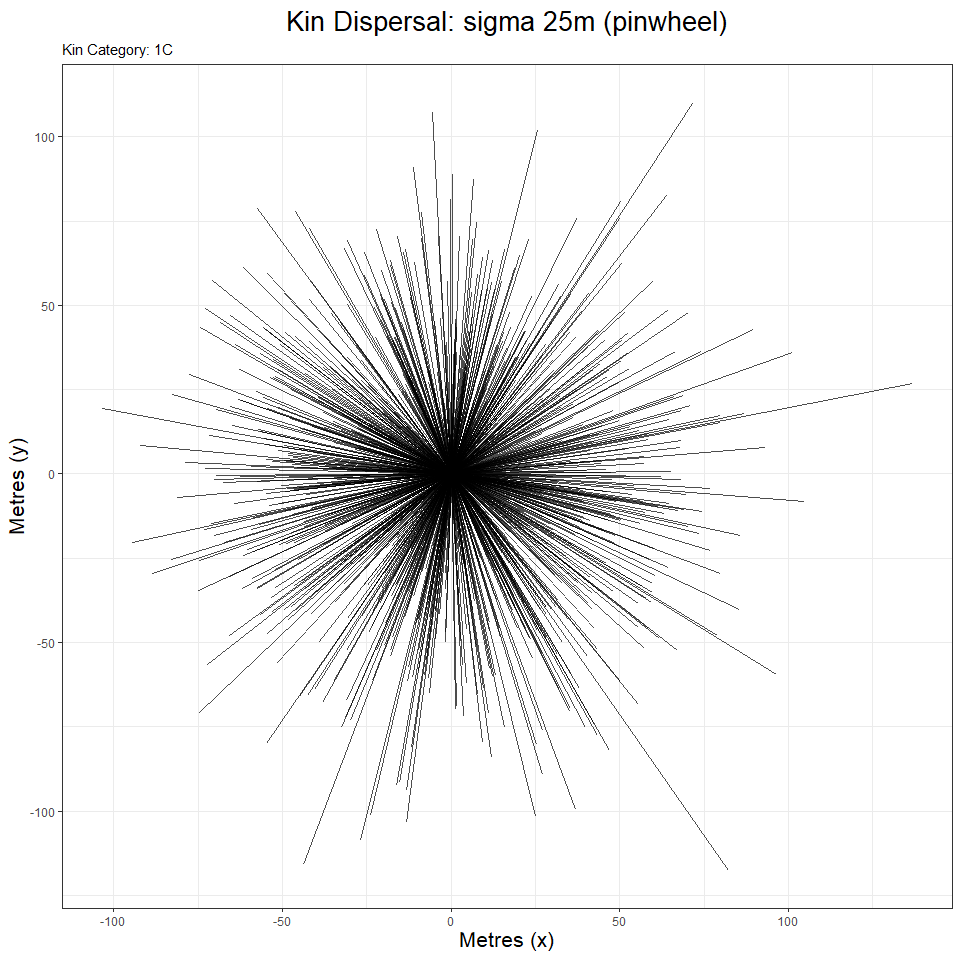
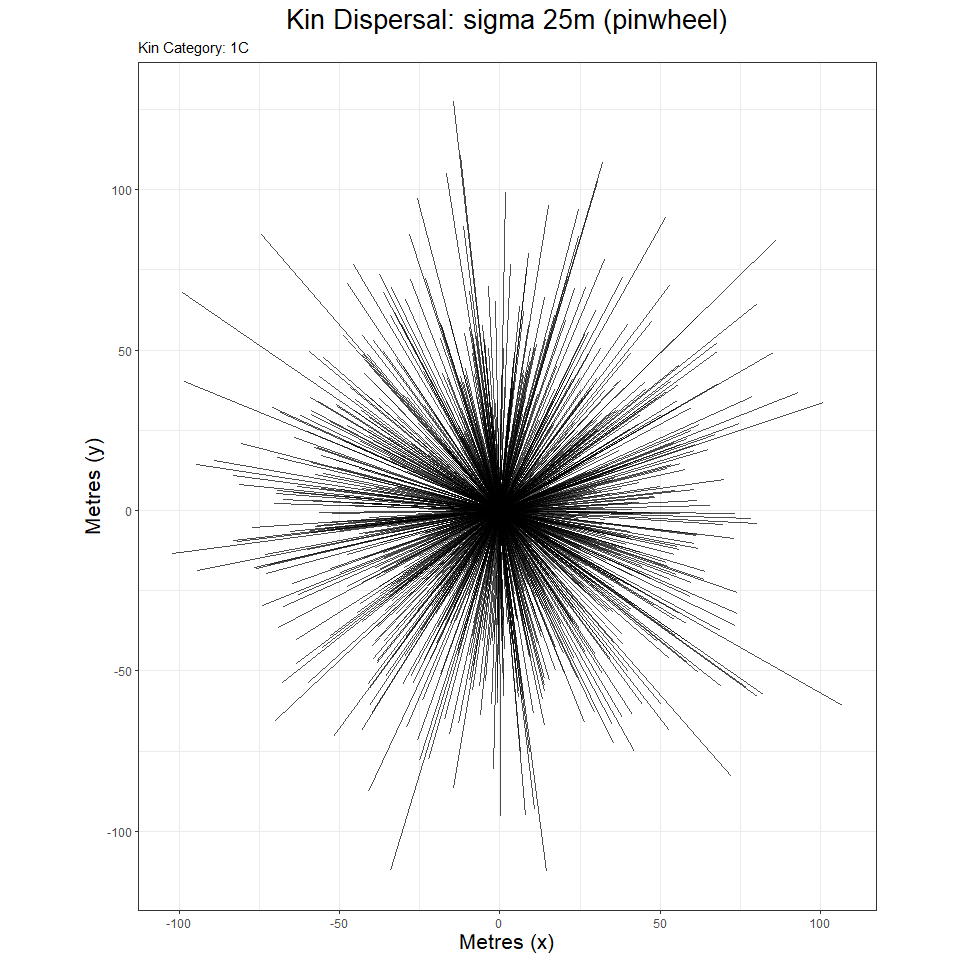
changed 'gamma' value to 'vgamma' to make it clear we are using a variance-gamma distribution and changed default shape value to 0.5. removed unused distributions

diff --git a/README.md b/README.md
@@ -1,4 +1,4 @@
-KINDISPERSE 0.9.1
+KINDISPERSE 0.9.2
 ================
 
 -   [1. Introduction](#1-introduction)
@@ -280,12 +280,12 @@ KinPairSimulation, which supplies a tibble (dataframe) of simulation
 results, as well as metadata capturing the simulation parameters.
 
 Three kernel types are supported for the next two simulations at
-present: `Gaussian`, `Laplace`, and `gamma`. These are passed to the
-functions with the `method` parameter. If using gamma, also supply its
-shape parameter with the argument `shape`. Small values of `shape`
-correspond to an increasingly leptokurtic kernel - i.e. a strong central
-clustering with an increased number of very widely spaced individuals
-(long tails).
+present: `Gaussian`, `Laplace`, and `vgamma` (variance-gamma). These are
+passed to the functions with the `method` parameter. If using vgamma,
+also supply its shape parameter with the argument `shape`. Small values
+of `shape` correspond to an increasingly leptokurtic kernel - i.e. a
+strong central clustering with an increased number of very widely spaced
+individuals (long tails).
 
 The simple simulation, `simulate_kindist_simple()`, simulates
 intergenerational dispersal for each kin category based on a simple
@@ -313,13 +313,13 @@ simulate_kindist_simple(nsims = 5, sigma = 100, method = "Gaussian", kinship = "
 #> 
 #> tab
 #> # A tibble: 5 x 8
-#>   id1   id2   kinship distance    x1    y1    x2    y2
-#>   <chr> <chr> <chr>      <dbl> <dbl> <dbl> <dbl> <dbl>
-#> 1 1a    1b    PO         161.   74.2  32.9 -26.7 -92.2
-#> 2 2a    2b    PO          98.3  76.0  86.3 166.   46.2
-#> 3 3a    3b    PO          81.1  94.9  14.9 109.  -64.9
-#> 4 4a    4b    PO          64.4  72.8  72.6 128.  105. 
-#> 5 5a    5b    PO         165.   42.8  76.5 -56.3 -55.8
+#>   id1   id2   kinship distance     x1    y1    x2    y2
+#>   <chr> <chr> <chr>      <dbl>  <dbl> <dbl> <dbl> <dbl>
+#> 1 1a    1b    PO          95.1 12.9    50.4  94.6  99.1
+#> 2 2a    2b    PO          70.4 44.2    18.6 -23.7  37.0
+#> 3 3a    3b    PO         163.   0.975  92.6 -75.1 -52.1
+#> 4 4a    4b    PO         124.  66.0    23.9  82.6 147. 
+#> 5 5a    5b    PO          29.3 97.3    41.4  74.7  22.9
 #> -----------------------------------
 ```
 
@@ -365,13 +365,13 @@ simulate_kindist_composite(nsims = 5, initsigma = 50, breedsigma = 30, gravsigma
 #> 
 #> tab
 #> # A tibble: 5 x 8
-#>   id1   id2   kinship distance     x1    y1     x2         y2
-#>   <chr> <chr> <chr>      <dbl>  <dbl> <dbl>  <dbl>      <dbl>
-#> 1 1a    1b    H1C         261.  -9.17 169.  -230.    30.9    
-#> 2 2a    2b    H1C         306. -22.0  122.   282.    96.9    
-#> 3 3a    3b    H1C         471. 357.   -88.3  -94.4   46.5    
-#> 4 4a    4b    H1C         421. 365.    14.6  -55.6   -0.00907
-#> 5 5a    5b    H1C         186. -96.5   45.8  -18.7 -123.     
+#>   id1   id2   kinship distance    x1     y1      x2     y2
+#>   <chr> <chr> <chr>      <dbl> <dbl>  <dbl>   <dbl>  <dbl>
+#> 1 1a    1b    H1C        290.   90.8  -16.9    6.18  261. 
+#> 2 2a    2b    H1C        319.  165.    85.8 -145.    159. 
+#> 3 3a    3b    H1C        286.  198.   322.    20.9    97.8
+#> 4 4a    4b    H1C        224.  127.    56.0   37.8  -150. 
+#> 5 5a    5b    H1C         63.0  82.2 -170.   118.   -119. 
 #> -----------------------------------
 ```
 
@@ -413,18 +413,18 @@ sample_kindist(compsim, upper = 1000, lower = 200, spacing = 50, n = 25)
 #> 
 #> tab
 #> # A tibble: 25 x 8
-#>    id1    id2    kinship distance     x1     y1      x2      y2
-#>    <chr>  <chr>  <chr>      <dbl>  <dbl>  <dbl>   <dbl>   <dbl>
-#>  1 14647a 14647b H2C          325  185.   309.   -69.5    83.8 
-#>  2 33500a 33500b H2C          275  199.  -164.   -88.5  -184.  
-#>  3 2494a  2494b  H2C          575  378.  -341.  -126.    -53.2 
-#>  4 57692a 57692b H2C          225  198.   -21.1   -8.89   59.2 
-#>  5 61721a 61721b H2C          375  332.    39.6  -65.6    15.6 
-#>  6 71947a 71947b H2C          275   43.9  109.   -17.3  -137.  
-#>  7 4757a  4757b  H2C          375  -65.4  118.   262.   -105.  
-#>  8 39252a 39252b H2C          425 -268.   284.   -38.1   -78.0 
-#>  9 2043a  2043b  H2C          275   81.1 -113.  -163.      4.37
-#> 10 71354a 71354b H2C          225   54.3  -16.4  270.   -115.  
+#>    id1    id2    kinship distance     x1     y1     x2     y2
+#>    <chr>  <chr>  <chr>      <dbl>  <dbl>  <dbl>  <dbl>  <dbl>
+#>  1 6221a  6221b  H2C          375 -145.   -19.8  190.  -139. 
+#>  2 93665a 93665b H2C          675 -270.    21.5  278.  -340. 
+#>  3 93871a 93871b H2C          375 -202.    76.6   69.2 -199. 
+#>  4 47182a 47182b H2C          275 -157.   132.  -217.   402. 
+#>  5 69897a 69897b H2C          375   26.0   64.8 -229.   326. 
+#>  6 18354a 18354b H2C          425  -91.0 -247.   -60.9  179. 
+#>  7 92188a 92188b H2C          625 -205.  -186.  -289.   435. 
+#>  8 63921a 63921b H2C          525 -106.   399.  -347.   -83.5
+#>  9 72309a 72309b H2C          225   88.8  -35.7  173.   148. 
+#> 10 34747a 34747b H2C          275   48.6  259.   240.    87.6
 #> # ... with 15 more rows
 #> -----------------------------------
 ```
@@ -519,13 +519,13 @@ of three draws from the PO distribution, and thus would take
 ``` r
 paroff <- simulate_kindist_simple(nsims = 1000, sigma = 75, kinship = "PO")
 axials(paroff)
-#> [1] 77.32184
+#> [1] 73.51258
 ```
 
 ``` r
 fullsibs <- simulate_kindist_composite(nsims = 10000, ovisigma = 25, kinship = "FS")
 axials(fullsibs, composite = 2)
-#> [1] 24.98738
+#> [1] 25.00852
 ```
 
 Various auxillary functions exist to further manipulate axial distances
@@ -609,7 +609,7 @@ fullcous <- simulate_kindist_composite(nsims = 75, initsigma = init, breedsigma 
 
 axpermute_standard(fullcous, fullsibs)
 #>      2.5%      mean     97.5% 
-#>  89.13507 101.10718 115.15420
+#>  84.69283  94.14651 102.98370
 ```
 
 As we can see, the C.I. neatly brackets the actual axial value, though
@@ -638,18 +638,18 @@ cousins
 #> 
 #> tab
 #> # A tibble: 150 x 9
-#>    id1   id2   kinship distance       x1     y1    x2    y2 lifestage
-#>    <chr> <chr> <chr>      <dbl>    <dbl>  <dbl> <dbl> <dbl> <chr>    
-#>  1 1a    1b    UN         145.    21.5    211.   83.1  80.0 immature 
-#>  2 2a    2b    UN          43.5    0.167   17.5  29.5 -14.7 immature 
-#>  3 3a    3b    UN         162.  -133.      97.6  10.4  21.2 immature 
-#>  4 4a    4b    UN          88.0  129.     137.   85.6  60.2 immature 
-#>  5 5a    5b    UN         183.   -28.2   -151.  107.  -28.7 immature 
-#>  6 6a    6b    UN          40.1  -90.4     78.6 -51.2  87.2 immature 
-#>  7 7a    7b    UN         138.   165.     110.   42.7 174.  immature 
-#>  8 8a    8b    UN         245.  -183.      97.4  34.6 -15.8 immature 
-#>  9 9a    9b    UN          58.3   11.0     32.2  46.5  78.5 immature 
-#> 10 10a   10b   UN         186.   -55.4     78.0 122.   22.7 immature 
+#>    id1   id2   kinship distance    x1     y1      x2      y2 lifestage
+#>    <chr> <chr> <chr>      <dbl> <dbl>  <dbl>   <dbl>   <dbl> <chr>    
+#>  1 1a    1b    UN          263.  10.0  204.     2.39  -58.2  immature 
+#>  2 2a    2b    UN          299.  91.1  -40.7 -195.   -128.   immature 
+#>  3 3a    3b    UN          259. -21.8  -82.0  224.      1.16 immature 
+#>  4 4a    4b    UN          287. 116.   180.  -158.     93.9  immature 
+#>  5 5a    5b    UN          110. -24.2  169.   -23.7    59.2  immature 
+#>  6 6a    6b    UN          169.  78.1  196.    33.4    32.6  immature 
+#>  7 7a    7b    UN          117. -48.9   30.9    9.15  133.   immature 
+#>  8 8a    8b    UN          113. -30.5   41.3   70.8    -8.24 immature 
+#>  9 9a    9b    UN          149. -13.3   95.8  117.    169.   immature 
+#> 10 10a   10b   UN          228.  42.5 -146.   -71.3    52.2  immature 
 #> # ... with 140 more rows
 #> -------------------------------
 ```
@@ -665,7 +665,7 @@ missing category data:
 # the cousin mixture in phase)
 axpermute_standard(avect = cousins, acat = "1C", amix = TRUE, amixcat = "H1C", bvect = fullsibs, bcomp = TRUE, bcompvect = halfsibs)
 #>      2.5%      mean     97.5% 
-#>  87.77774  99.30503 110.02799
+#>  80.97902  91.38951 101.24130
 ```
 
 This estimate is a lot more convoluted, and not as ‘spot on’- but the

diff --git a/NEWS.md b/NEWS.md
@@ -1,4 +1,10 @@
 # kindisperse 0.9.1
+Changed all occurrences of the 'gamma' kernelshape/method parameter value to 'vgamma' to make it clear we are using a variance-gamma distribution, not a gamma distribution. 
+(effects simulation functions)
+Removed unused dispersal kernels (simulation functions)
+Changed simulation shape parameter default from 1 to 0.5. 
+
+# kindisperse 0.9.1
 
 * Added a `NEWS.md` file to track changes to the package.
 * Fixed several display and layout issues in Shiny app
